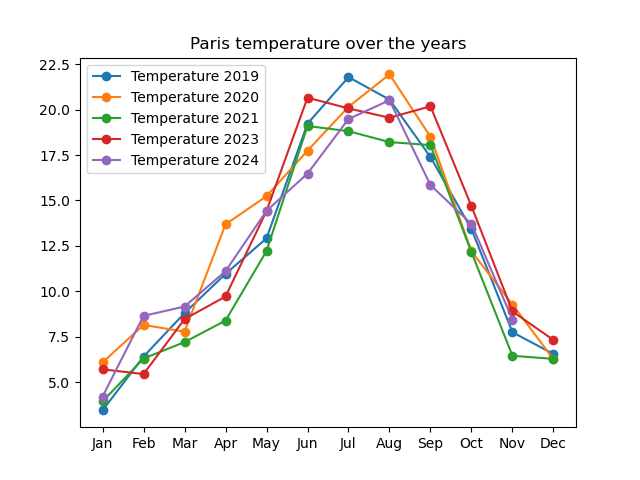
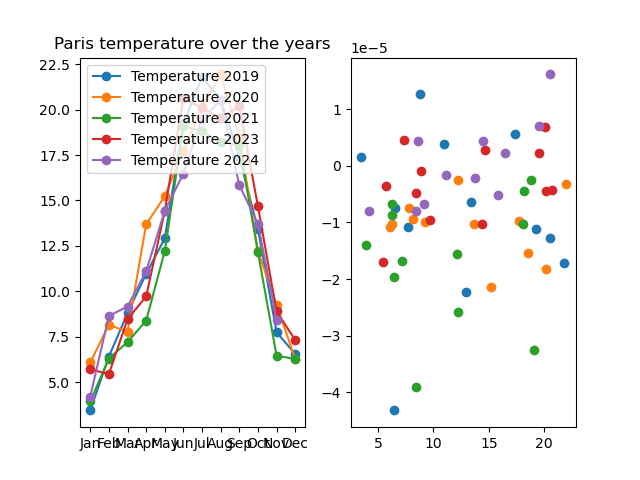
alle code correct (als het goed is)

diff --git a/airport.py b/airport.py
@@ -838,7 +838,7 @@ def airport_emission(location):
 
 
      #dataframes_netto maken
-    df_netto_2019 = df_2019 - df_2019_background
+    df_netto_2019 = df_2019['Density'] - df_2019_background['Density']
     df_netto_2020 = df_2020['Density'] - df_2020_background['Density']
     df_netto_2021 = df_2021['Density'] - df_2021_background['Density']
     df_netto_2023 = df_2023['Density'] - df_2023_background['Density']
@@ -910,6 +910,7 @@ def airport_emission(location):
     monthly_avg_2023_background = df_2023_background.resample('M').mean()
     monthly_avg_2024_background = df_2024_background.resample('M').mean()
 
+    print(monthly_avg_2019)
     # Netto maandgemiddelde berekenen door de achtergrondwaarden af te trekken van de totale waarden
     netto_monthly_avg_2019 = monthly_avg_2019['Density'] - monthly_avg_2019_background['Density']
     netto_monthly_avg_2020 = monthly_avg_2020['Density'] - monthly_avg_2020_background['Density']
@@ -993,23 +994,36 @@ def airport_emission(location):
     months_axis = ['Jan', 'Feb', 'Mar', 'Apr', 'May', 'Jun', 'Jul', 'Aug', 'Sep', 'Oct', 'Nov', 'Dec']
     months_axis2 = ['Jan', 'Feb', 'Mar', 'Apr', 'May', 'Jun', 'Jul', 'Aug', 'Sep', 'Oct', 'Nov']
 
-    maanden_2019 = temp_scaled[0:12]
-    maanden_2020 = temp_scaled[12:24]
-    maanden_2021 = temp_scaled[24:36]
-    maanden_2023 = temp_scaled[36:48]
-    maanden_2024 = temp_scaled[48:60]
+    # maanden_2019 = temp_scaled[0:12]
+    # maanden_2020 = temp_scaled[12:24]
+    # maanden_2021 = temp_scaled[24:36]
+    # maanden_2023 = temp_scaled[36:48]
+    # maanden_2024 = temp_scaled[48:60]
 
+    maanden_2019 = pd.DataFrame.from_dict({'month':np.arange(1, 13, 1), 'year':np.ones((12))* 2019, 'temperature':temp_scaled[0:12]}, orient='columns')
+    maanden_2020 = pd.DataFrame.from_dict({'month':np.arange(1, 13, 1), 'year':np.ones((12))* 2020, 'temperature':temp_scaled[12:24]}, orient='columns')
+    maanden_2021 = pd.DataFrame.from_dict({'month':np.arange(1, 13, 1), 'year':np.ones((12))* 2021, 'temperature':temp_scaled[24:36]}, orient='columns')
+    maanden_2023 = pd.DataFrame.from_dict({'month':np.arange(1, 13, 1), 'year':np.ones((12))* 2023, 'temperature':temp_scaled[36:48]}, orient='columns')
+    maanden_2024 = pd.DataFrame.from_dict({'month':np.arange(1, 12, 1), 'year':np.ones((11))* 2024, 'temperature':temp_scaled[48:59]}, orient='columns')
 
-    print(maanden_2019)
-
-    plt.plot(months_axis, maanden_2019, 'o-',label='Temperature 2019')
-    plt.plot(months_axis, maanden_2020, 'o-',label='Temperature 2020')
-    plt.plot(months_axis, maanden_2021, 'o-',label='Temperature 2021')
-    plt.plot(months_axis, maanden_2023, 'o-',label='Temperature 2023')
-    plt.plot(months_axis2, maanden_2024, 'o-',label='Temperature 2024')
+    #print(maanden_2019)
+    fig = plt.figure()
+    ax = plt.subplot(1, 2, 1)
+    plt.plot(months_axis, maanden_2019['temperature'], 'o-',label='Temperature 2019')
+    plt.plot(months_axis, maanden_2020['temperature'], 'o-',label='Temperature 2020')
+    plt.plot(months_axis, maanden_2021['temperature'], 'o-',label='Temperature 2021')
+    plt.plot(months_axis, maanden_2023['temperature'], 'o-',label='Temperature 2023')
+    plt.plot(months_axis2, maanden_2024['temperature'], 'o-',label='Temperature 2024')
     plt.legend(loc = 'upper left')
     plt.title(f'{location} temperature over the years')
+    ax = plt.subplot(1, 2, 2)
+    plt.scatter(maanden_2019['temperature'], netto_monthly_avg_2019, label='2019')
+    plt.scatter(maanden_2020['temperature'], netto_monthly_avg_2020, label='2020')
+    plt.scatter(maanden_2021['temperature'], netto_monthly_avg_2021, label='2021')
+    plt.scatter(maanden_2023['temperature'], netto_monthly_avg_2023, label='2023')
+    plt.scatter(maanden_2024['temperature'], netto_monthly_avg_2024.values[0:11], label='2024')
+
     plt.savefig(f'{location}_temperature.png')
     plt.show()
 
-airport_emission(location="Paris")
+airport_emission(location="Atlanta")
